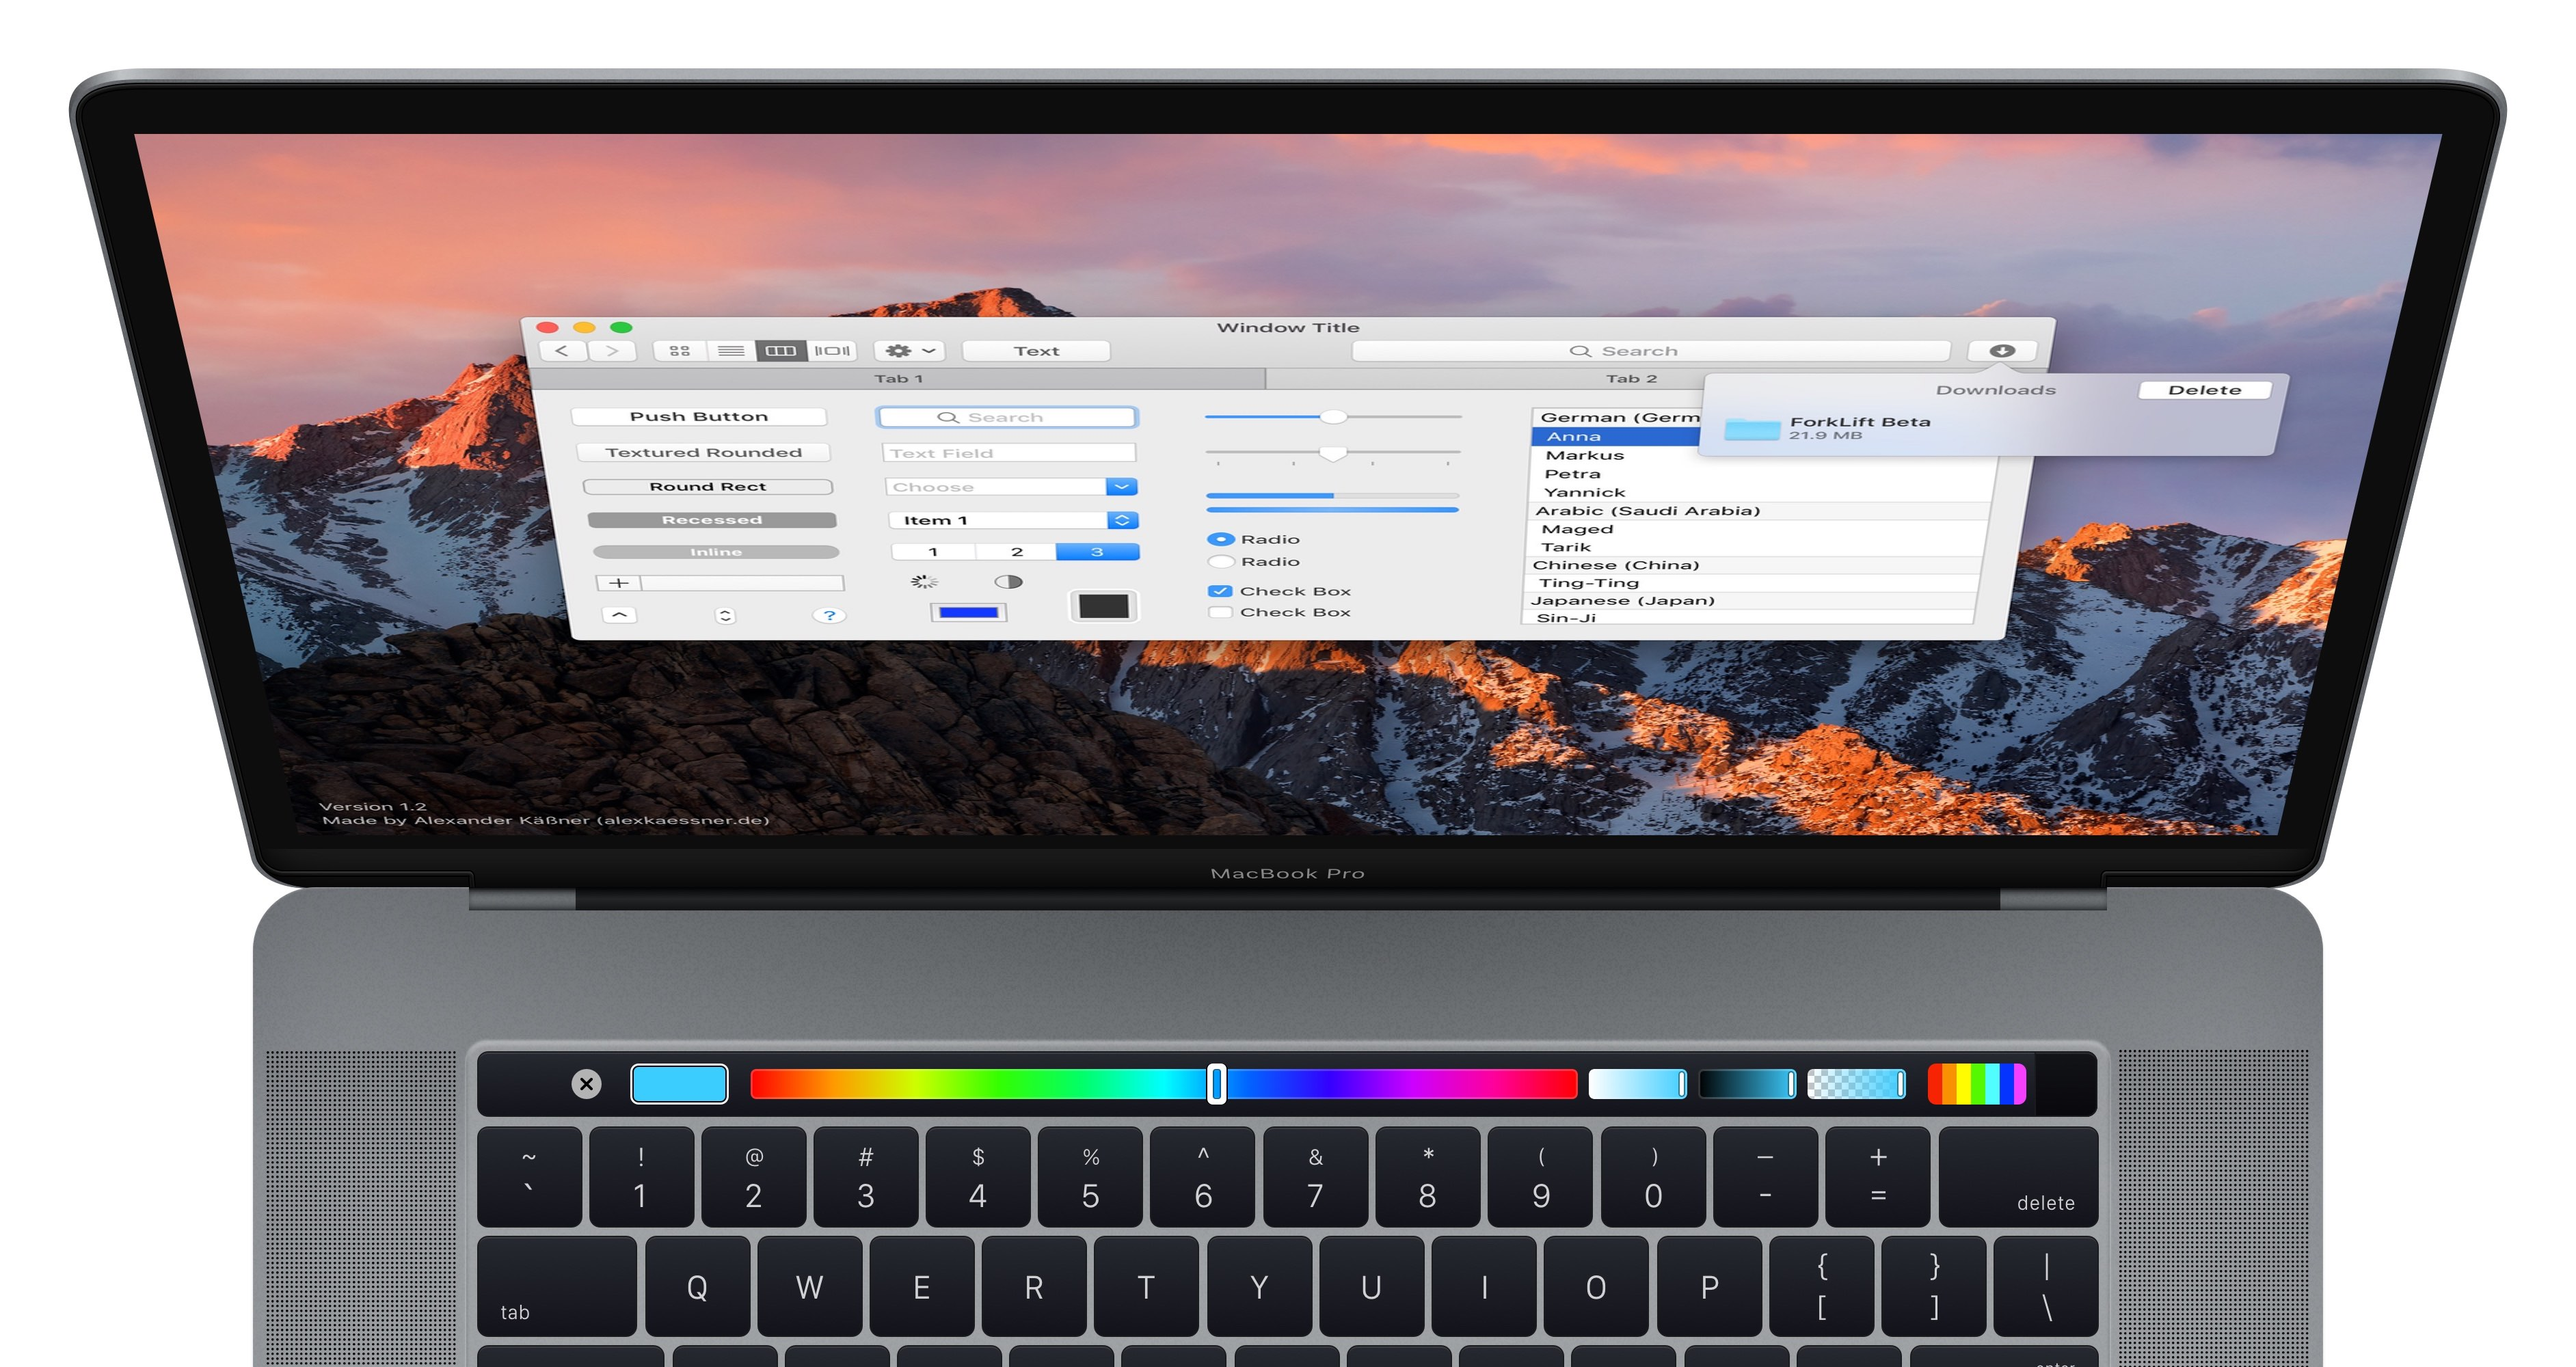
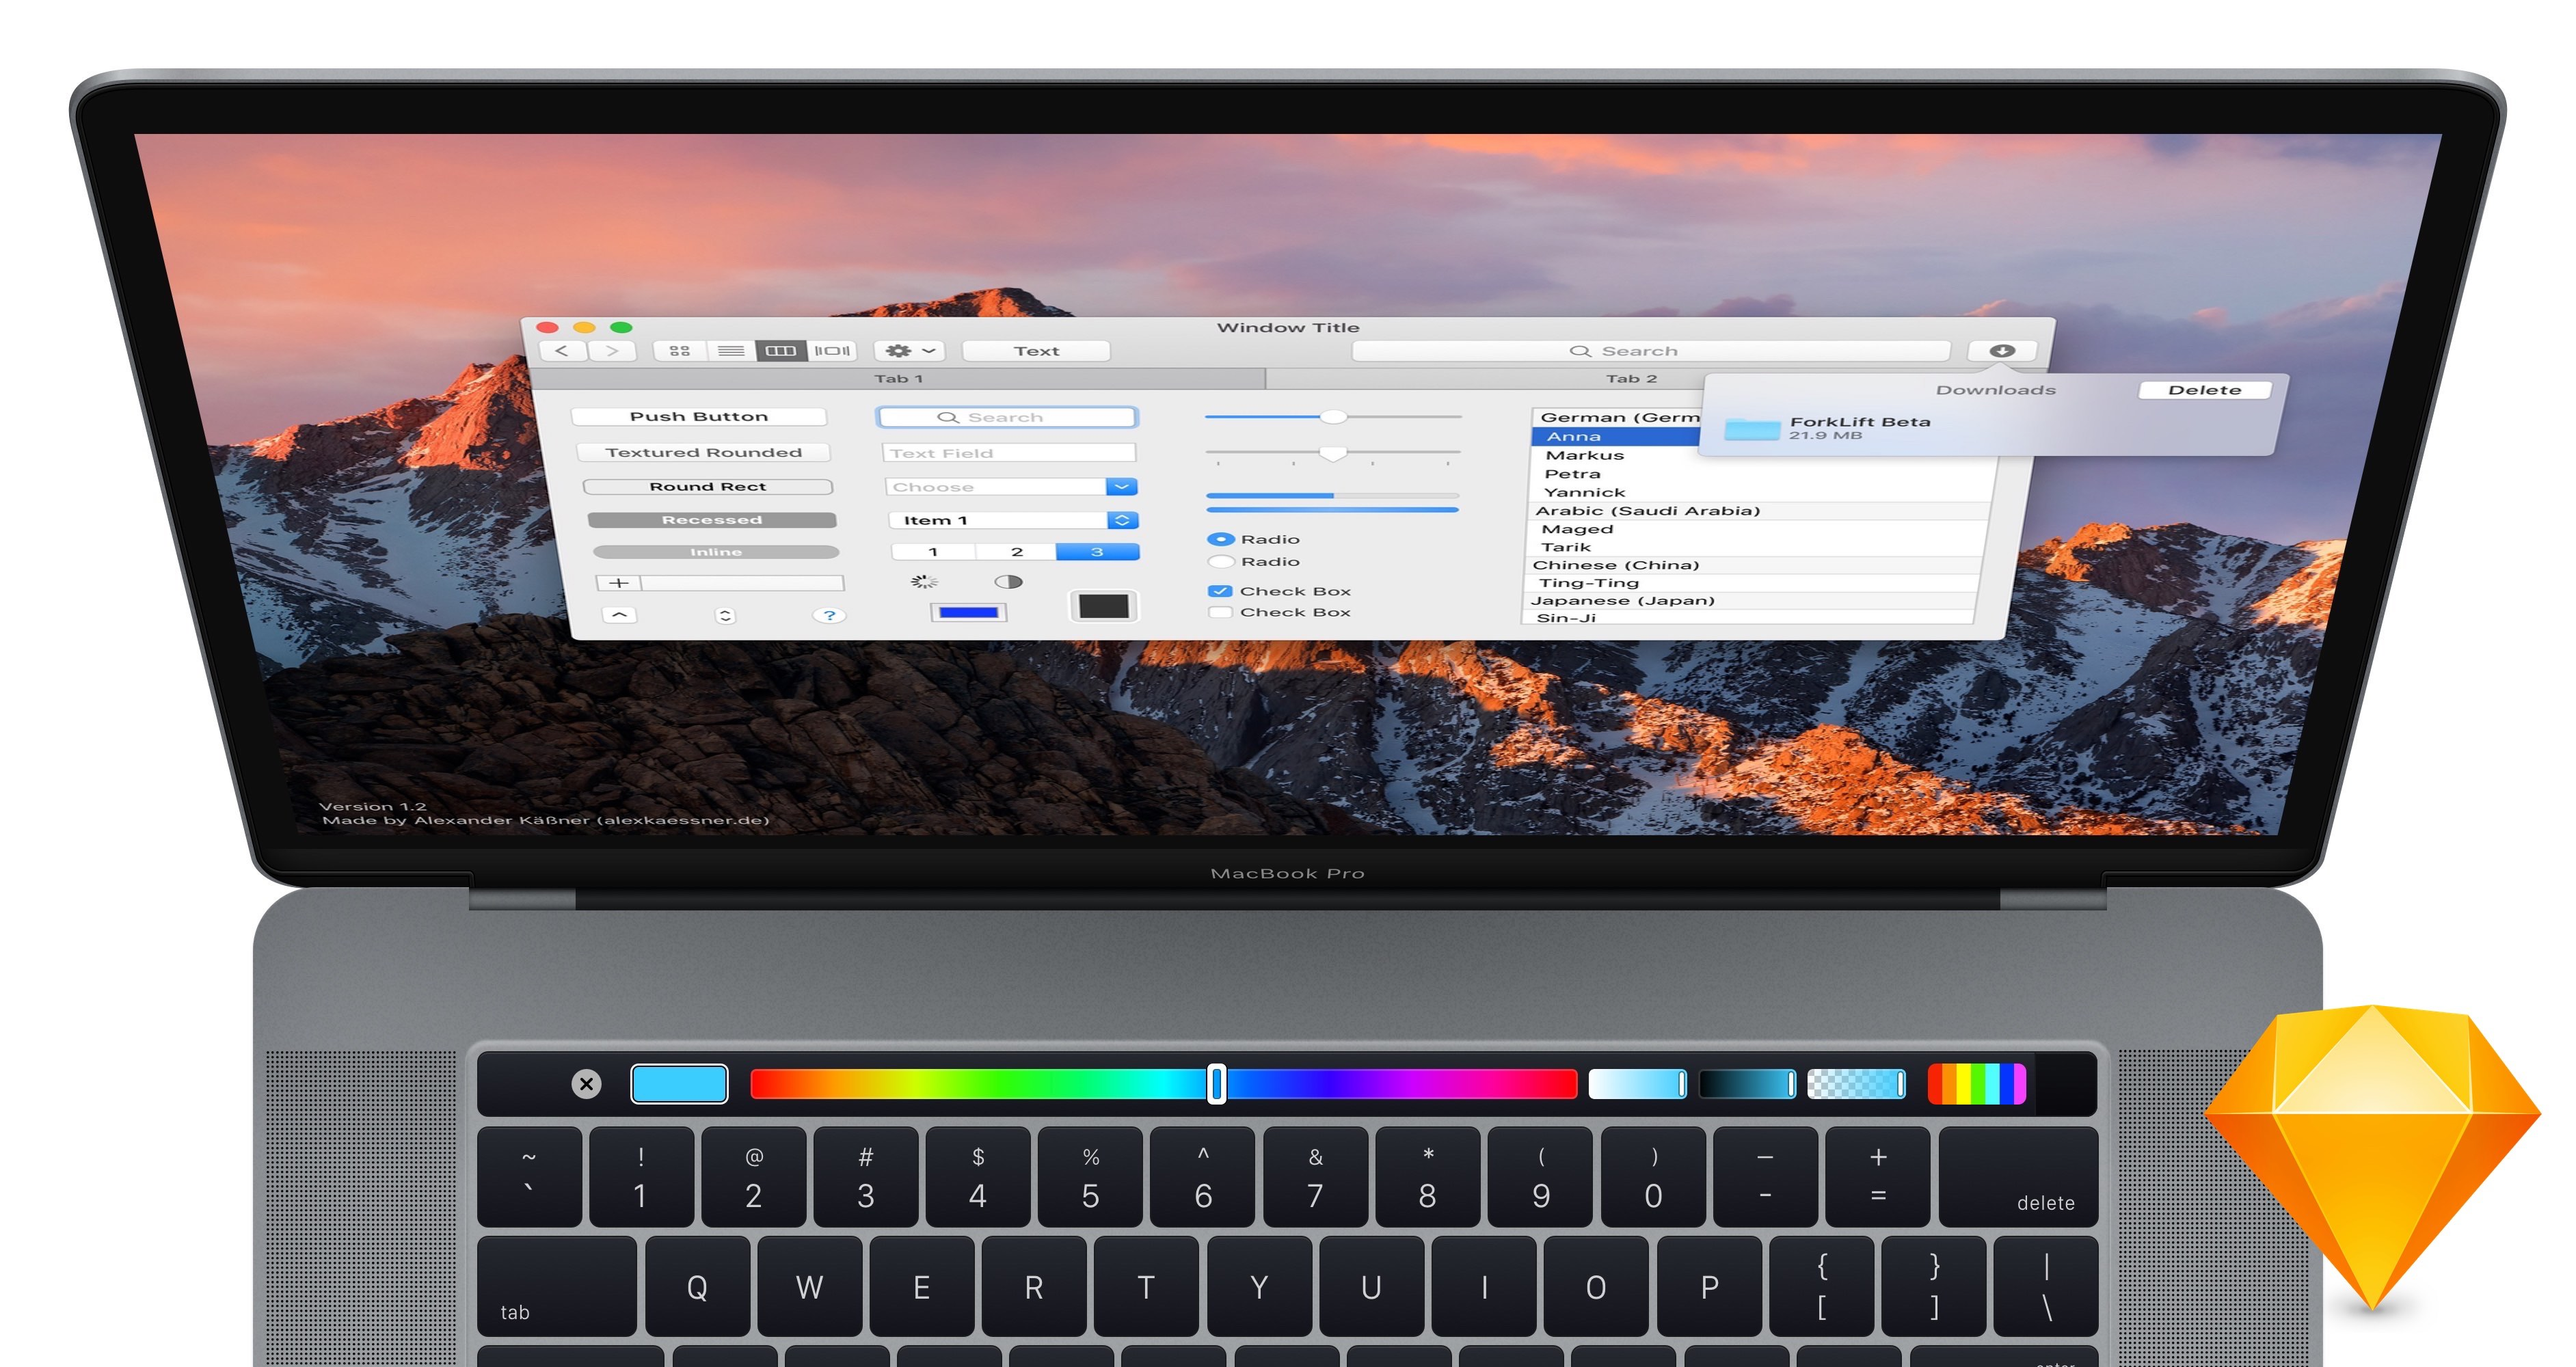
:bookmark: updating README for new release
added Product Hunt Link + added Sketch Icon to repo preview image

Changed region(s): [[0.8384, 0.713, 0.9936, 0.961]]

diff --git a/README.md b/README.md
@@ -5,12 +5,13 @@
 This is a small UI Kit for macOS Sierra.  
 This UI Kit is designed at 1x scale, but with retina displays in mind! So if you open this on a non-retina screen it may looks a little blurry. I think we're missing some good retina UI Kits for Mac, so I've created this based on Apple's fine retina display style. 
 
-The Sketch document uses the latest features like Text Styles, Symbols and Auto Layout. **You can [download](https://github.com/alexkaessner/macOS-UI-Kit/archive/master.zip) this for FREE and use it to create your own retina ready designs!**  
+The Sketch document uses the latest features like Text Styles, Symbols and Auto Layout. **You can [download](https://github.com/alexkaessner/macOS-UI-Kit/archive/master.zip) this Kit for FREE and use it to create your own retina ready designs!**  
 Show some love if you like this UI kit and share it with your friends. :+1:
 
-PS any feedback is appreciated! Just take a look at the issues, or [leave me a comment on dribbble](https://dribbble.com/shots/2987000-macOS-Sierra-UI-Kit-for-Sketch).
+PS any feedback is appreciated! Just take a look at the issues, or [leave me a comment on dribbble](https://dribbble.com/shots/2987000-macOS-Sierra-UI-Kit-for-Sketch) or [Product Hunt](https://www.producthunt.com/posts/macos-ui-kit-for-sketch).
 
-# Whats new?
+
+# Touch Bar Kit
 ![Preview](Previews/Touch Bar Preview.jpg?raw=true)
 New since version 1.1 is a UI Kit for the all new MacBook Pro Touch Bar. It includes common layouts from the [macOS HIG](https://developer.apple.com/library/content/documentation/UserExperience/Conceptual/OSXHIGuidelines/AbouttheTouchBar.html#//apple_ref/doc/uid/20000957-CH104-SW1) and some system app layouts.
 
@@ -23,4 +24,5 @@ Take a look at the [Repo Wiki](https://github.com/alexkaessner/macOS-UI-Kit/wiki
 - [ ] Interested in a complete UI Kit? Show me some reactions [here](https://github.com/alexkaessner/macOS-UI-Kit/issues/1)! :wink:
 
 # System requirements
-This UI Kit requires Sketch 40 or higher.
+This UI Kit requires Sketch 40 or higher. **The latest update to the Touch Bar Kit was made with Sketch 41!**  
+If you have troubles with older versions please use [version 1.2](https://github.com/alexkaessner/macOS-UI-Kit/releases/tag/v1.2).
